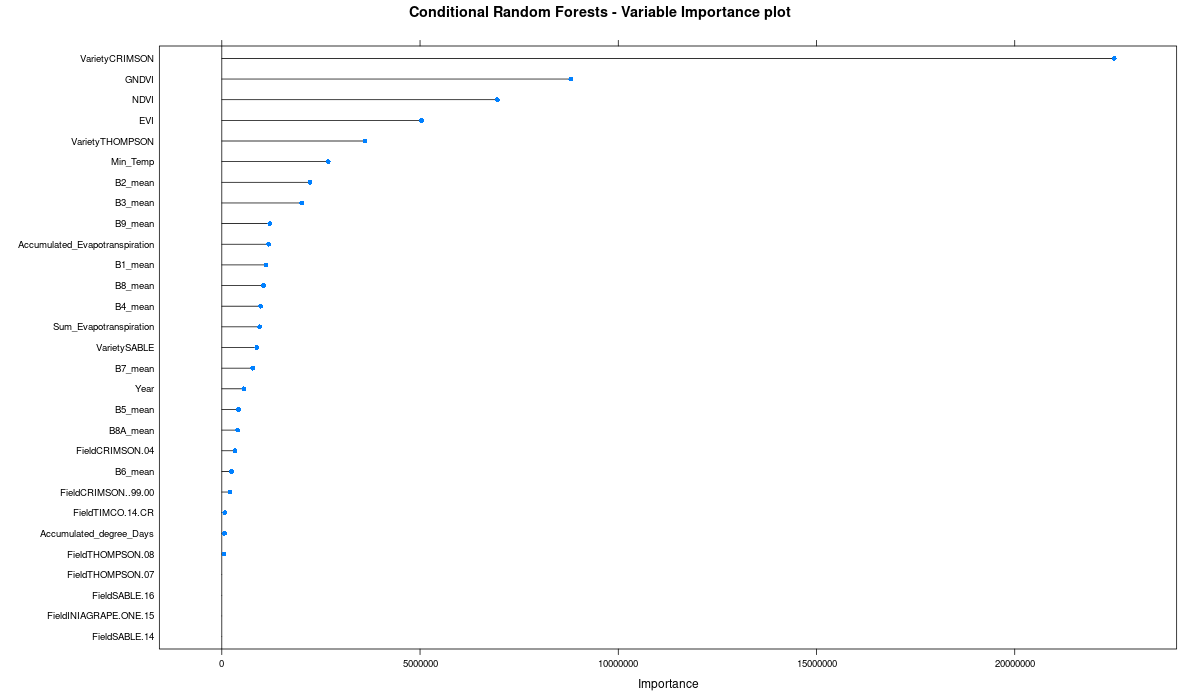
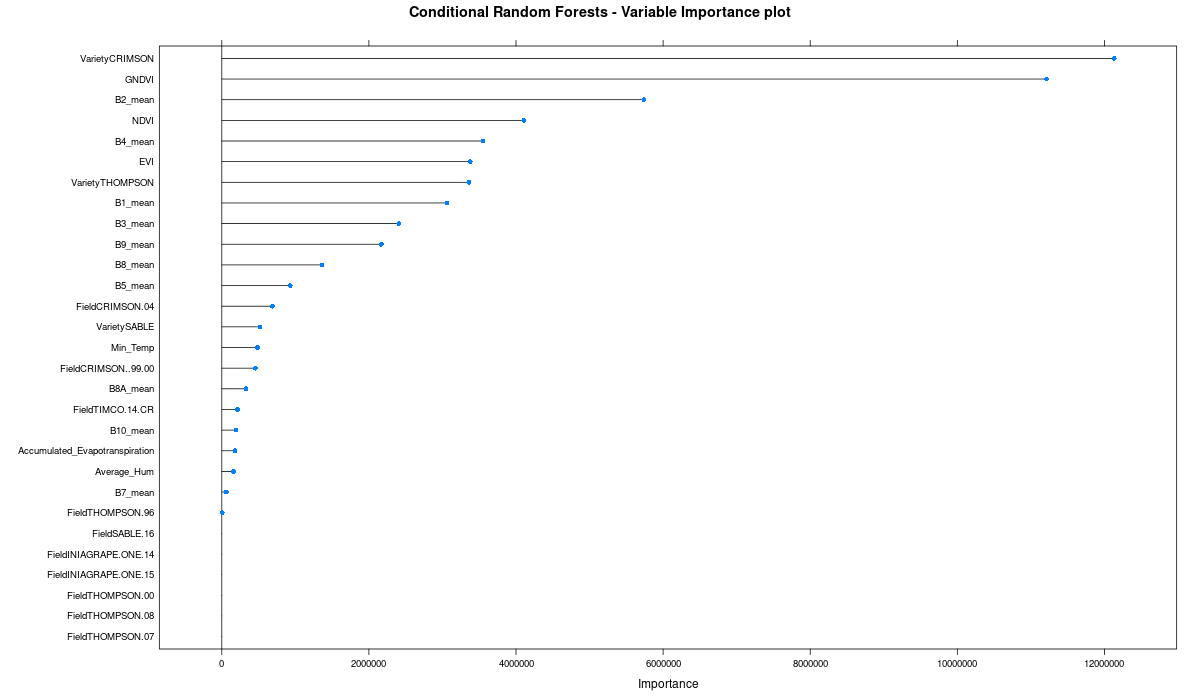
Update

diff --git a/README.md b/README.md
@@ -29,7 +29,8 @@ Image of Carmen Rosa Farm:
 ---
 
 ## Google Earth Engine
-To start we created two scripts in GEE to download the images cut with all the bands.
+To carry out this project, an algorithm was generated through Google Earth Engine to obtain the images between November and December from 2016 to 2019, which represent the most important phenological stage for these grapes in this area of Chile. In the algorithm the images of GNDVI, NDVI and EVI were generated, which give us information about the crops and their health. Within the same algorithm, a mean of all the images for all their bands was obtained, which were downloaded and processed by the algorithms generated in R.
+To obtain the information for the prediction of the year 2021, this algorithm was also used to obtain the desired images and bands.
 
 The codes are as follows:
 [Sentinel-2](https://code.earthengine.google.com/10bef8017a4fcacec6ef47296e2b9018)
@@ -60,16 +61,105 @@ For the fields 'INIAGRAPE ONE 15' and 'SABLE 16', only the years 2018 - 2019 are
 Applying the [Caret](https://topepo.github.io/caret/index.html) de R package, a [Machine Learning](https://en.wikipedia.org/wiki/Machine_learning) model was made to make a prediction of the Yield of Carmen Rosa farm.
 According to what has been done, the need for more data to make a prediction with better precision is evident. But considering the lack of these, it was decided to make (anyway) an [ML](https://en.wikipedia.org/wiki/Machine_learning) model, considering that it will improve over the years as more information is available.
 
+### Evaluation and selection of Hyperparameters
+
+When analyzing the values for tuning in the [Random Forest](https://en.wikipedia.org/wiki/Random_forest#:~:text=Random%20forests%20or%20random%20decision,average%20prediction%20(regression)%20of%20the) model and in the Conditional Random Forest model, the Caret package was used, which provides an analysis of the values and search for the best one for the model evaluation and for a better application. results.
+
+Random Forest hyperparameters:
+```r
+44 samples
+42 predictors
+
+No pre-processing
+Resampling: Cross-Validated (10 fold) 
+Summary of sample sizes: 40, 38, 40, 41, 39, 40, ... 
+Resampling results across tuning parameters:
+
+  mtry  RMSE      Rsquared   MAE     
+   1    11313.02  0.5913641  8805.113
+   2    11233.78  0.5739389  8595.103
+   3    11190.36  0.5421181  8522.698
+   4    11336.41  0.5071823  8580.285
+   5    11297.34  0.4935617  8609.997
+   6    11331.10  0.4550093  8628.867
+   7    11462.52  0.4813677  8686.385
+   8    11392.63  0.5200848  8629.688
+   9    11349.73  0.4646055  8596.461
+  10    11554.35  0.4699390  8791.347
+
+RMSE was used to select the optimal model using the smallest value.
+The final value used for the model was mtry = 3.
+
+predictions_rf
+       2        6        7       15       16       23       24       27       31       35 
+37350.00 51419.28 21576.30 48898.07 47736.55 31887.30 30553.16 48768.50 33569.82 37489.89 
+      38       39 
+51990.50 44394.46 
+```
+![RMS vs Ramdom Predictors Random Forest model](https://github.com/diegoalarc/Innovation_laboratory_EAGLE/blob/main/Plots/RMSE_vs_Ramdom_Predictors_rforest.png?raw=true "RMS vs Ramdom Predictors Random Forest model")
+
+
+Conditional Random Forest hyperparameters:
+```r
+44 samples
+42 predictors
+
+No pre-processing
+Resampling: Cross-Validated (10 fold) 
+Summary of sample sizes: 39, 39, 40, 39, 40, 40, ... 
+Resampling results across tuning parameters:
+
+  mtry  RMSE      Rsquared   MAE      
+   1    12053.26  0.4298993  10080.184
+   2    11814.87  0.3791793   9778.230
+   3    11689.42  0.4019155   9580.477
+   4    11591.90  0.3775144   9397.946
+   5    11534.47  0.3684445   9335.193
+   6    11457.66  0.3622635   9179.390
+   7    11480.85  0.3748539   9206.903
+   8    11479.33  0.3397349   9171.475
+   9    11478.41  0.3233077   9119.884
+  10    11443.39  0.3306709   9107.359
+  11    11502.91  0.3167354   9164.722
+  12    11548.07  0.2954789   9212.756
+  13    11590.20  0.3059548   9193.360
+  14    11539.12  0.3029505   9139.306
+  15    11589.38  0.3106756   9220.703
+  16    11497.30  0.3072841   9130.800
+  17    11502.25  0.3015877   9099.461
+  18    11517.28  0.3009394   9133.289
+  19    11581.38  0.2850629   9207.241
+  20    11496.29  0.3013609   9119.681
+  21    11511.56  0.2989071   9145.873
+  22    11526.58  0.2913248   9083.042
+  23    11570.59  0.2932375   9154.639
+  24    11611.12  0.3028381   9162.697
+  25    11466.83  0.3084365   9068.082
+  26    11600.29  0.2818326   9148.720
+  27    11606.32  0.2925889   9200.412
+  28    11528.23  0.3013926   9082.504
+  29    11531.90  0.3031029   9139.294
+  30    11574.06  0.3030992   9171.680
+
+RMSE was used to select the optimal model using the smallest value.
+The final value used for the model was mtry = 10.
+
+predictions_crf
+ [1] 39564.89 45875.62 31771.34 48094.92 47655.84 34375.79 34443.04 42533.70 35074.93 36167.06
+[11] 48650.54 45200.77
+```
+![RMS vs Ramdom Predictors Conditional Random Forest model](https://github.com/diegoalarc/Innovation_laboratory_EAGLE/blob/main/Plots/RMSE_vs_Ramdom_Predictors_cforest.png?raw=true "RMS vs Ramdom Predictors Conditional Random Forest model")
+
+### Plot of variable importance
 Something important when looking at the generated model, is variable importance, which is possible thanks to Caret's "varImp" function.
 
-#### Plot of variable importance:
 - RandomForest model:
-![variable importance ML model](https://github.com/diegoalarc/Innovation_laboratory_EAGLE/blob/main/Plots/Variable_Importance_rforest_ggplo2.png?raw=true "variable importance ML model")
+![Variable importance ML model](https://github.com/diegoalarc/Innovation_laboratory_EAGLE/blob/main/Plots/Variable_Importance_rforest_ggplo2.png?raw=true "Variable importance ML model")
 
 - Conditional RandomForest model:
-![variable importance ML model](https://github.com/diegoalarc/Innovation_laboratory_EAGLE/blob/main/Plots/Variable_Importance_cforest_ggplo2.png?raw=true "variable importance ML model")
+![Variable importance ML model](https://github.com/diegoalarc/Innovation_laboratory_EAGLE/blob/main/Plots/Variable_Importance_cforest_ggplo2.png?raw=true "Variable importance ML model")
 
-## Values of R2, RMSE & MAE
+### Values of R2, RMSE & MAE
 - RandomForest model:
 
 | `R2` | `RMSE Kg` | `MAE Kg` |
@@ -84,8 +174,8 @@ Something important when looking at the generated model, is variable importance,
 
 | `R2` | `RMSE Kg` | `MAE Kg` |
 | :-------: | :------: | :-----: |
-| 0.8085934 | 5973.211 | 4652.136 |
+| 0.805903 | 6059.249 | 4653.996 |
 
 |`RMSE without dimension`|
 | :--------------------: |
-| 0.1469864 |
+| 0.1491036 |
